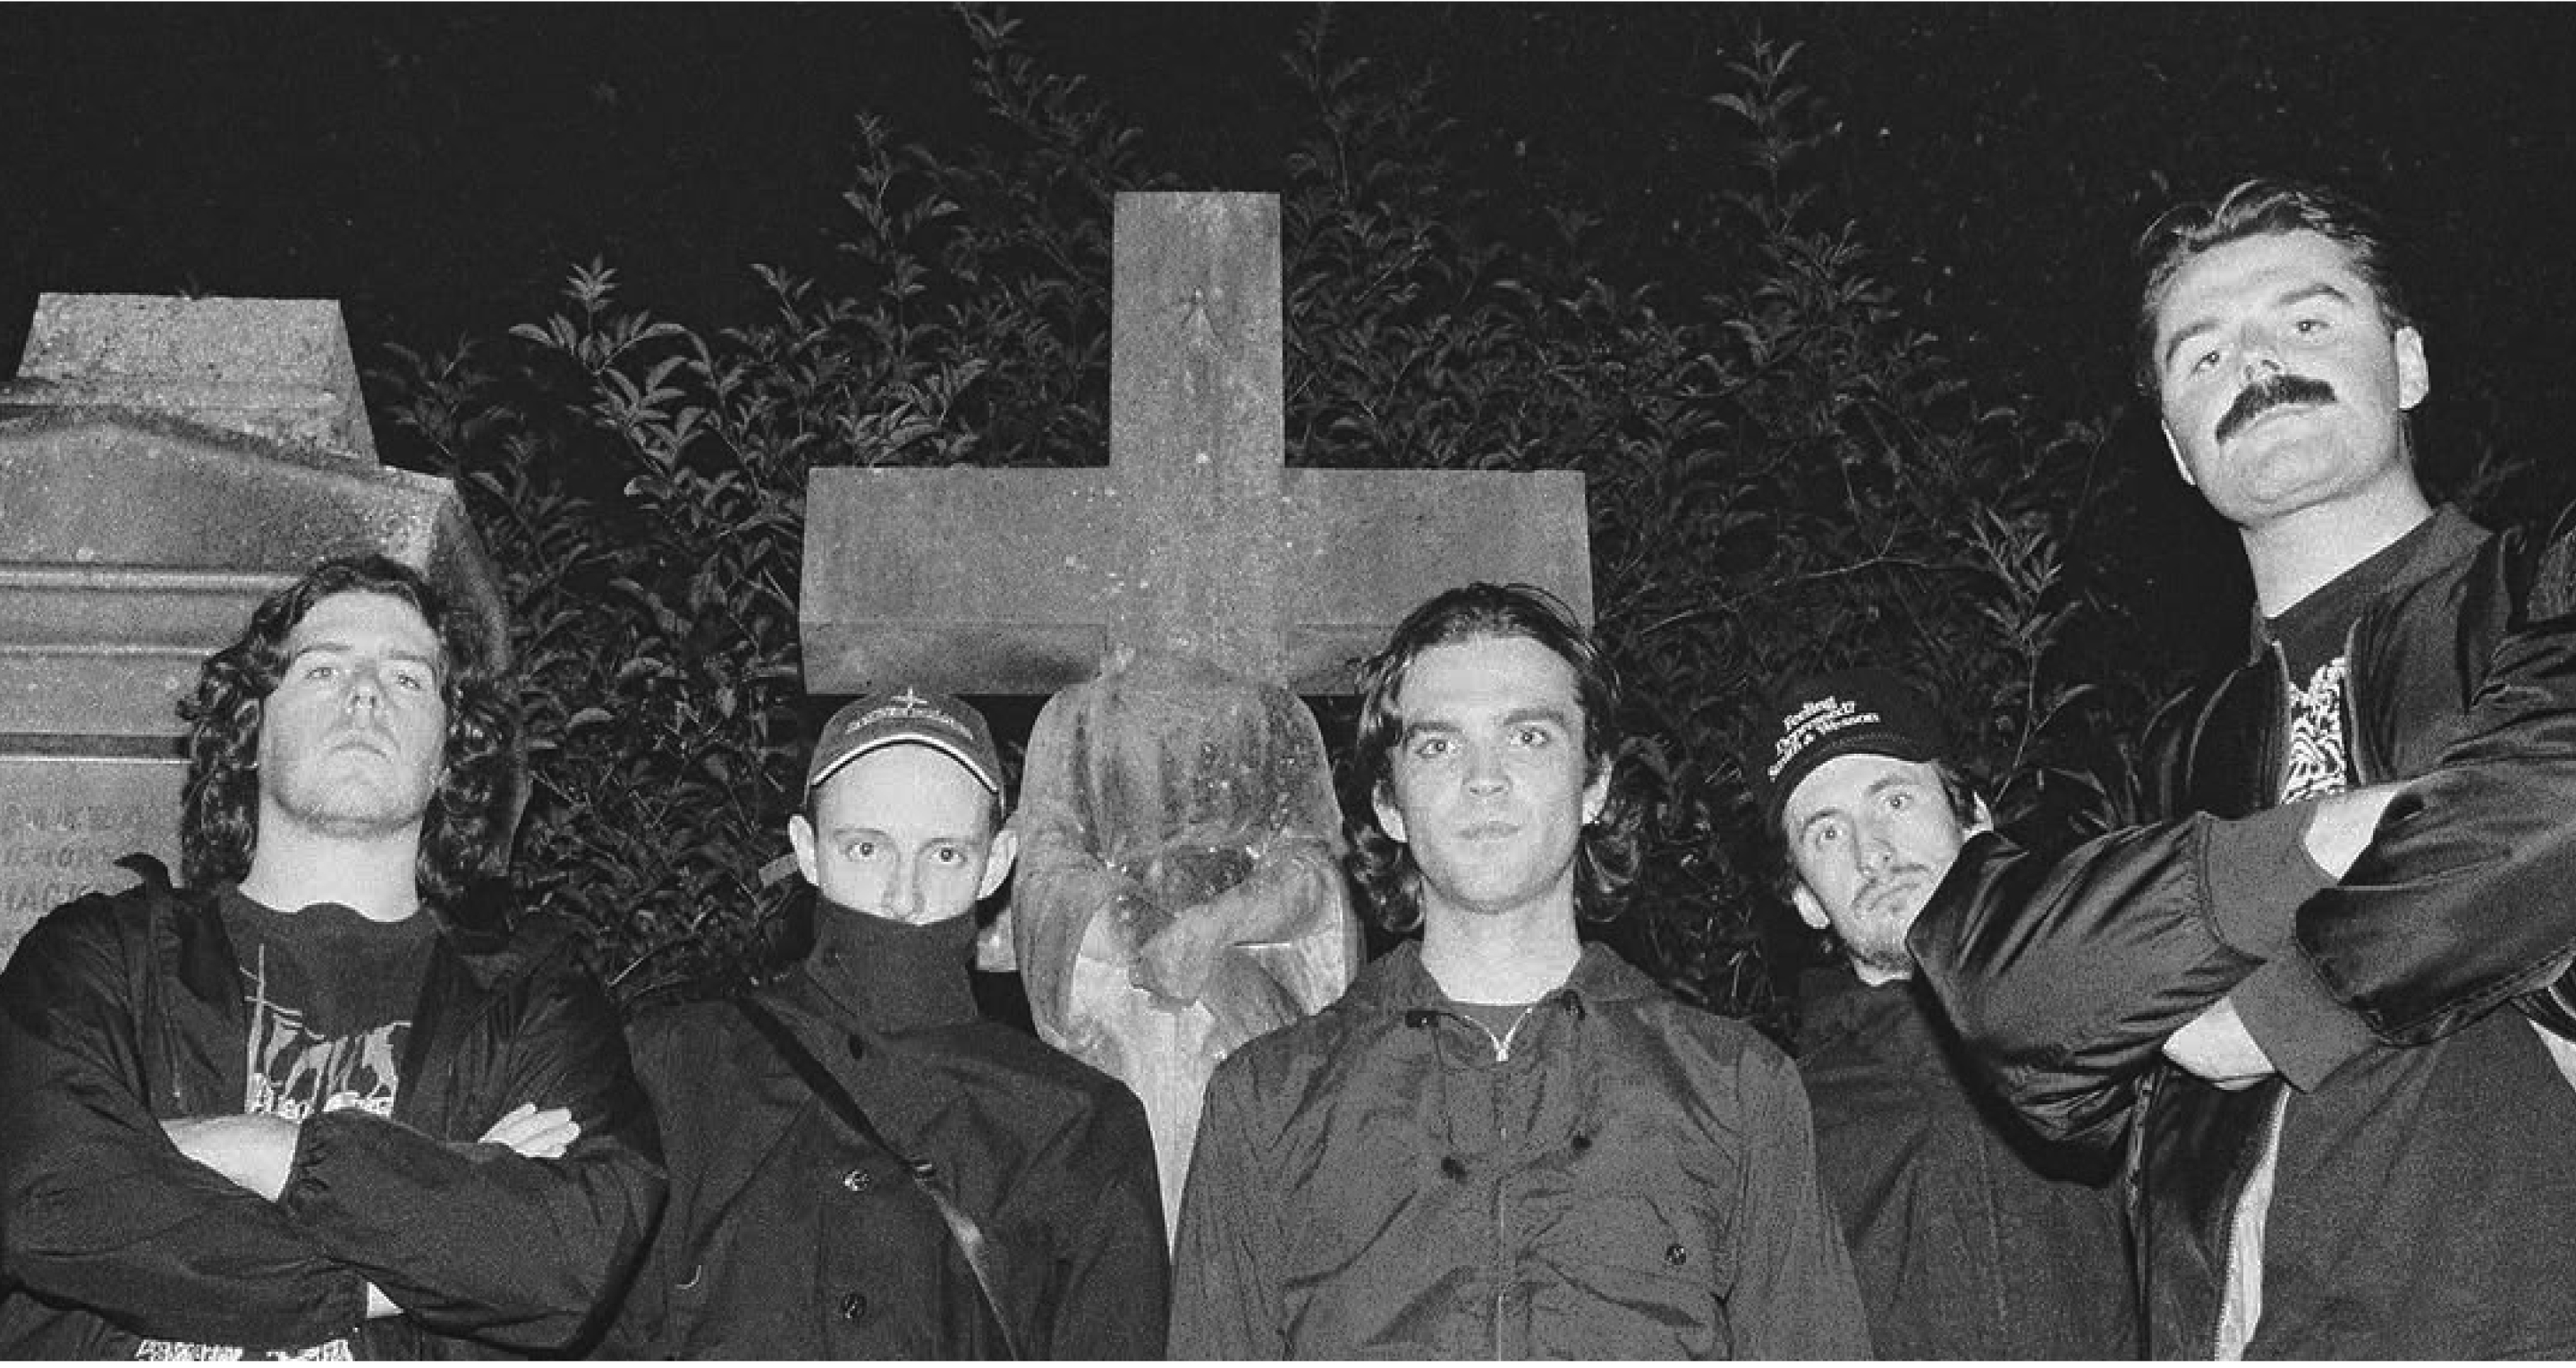
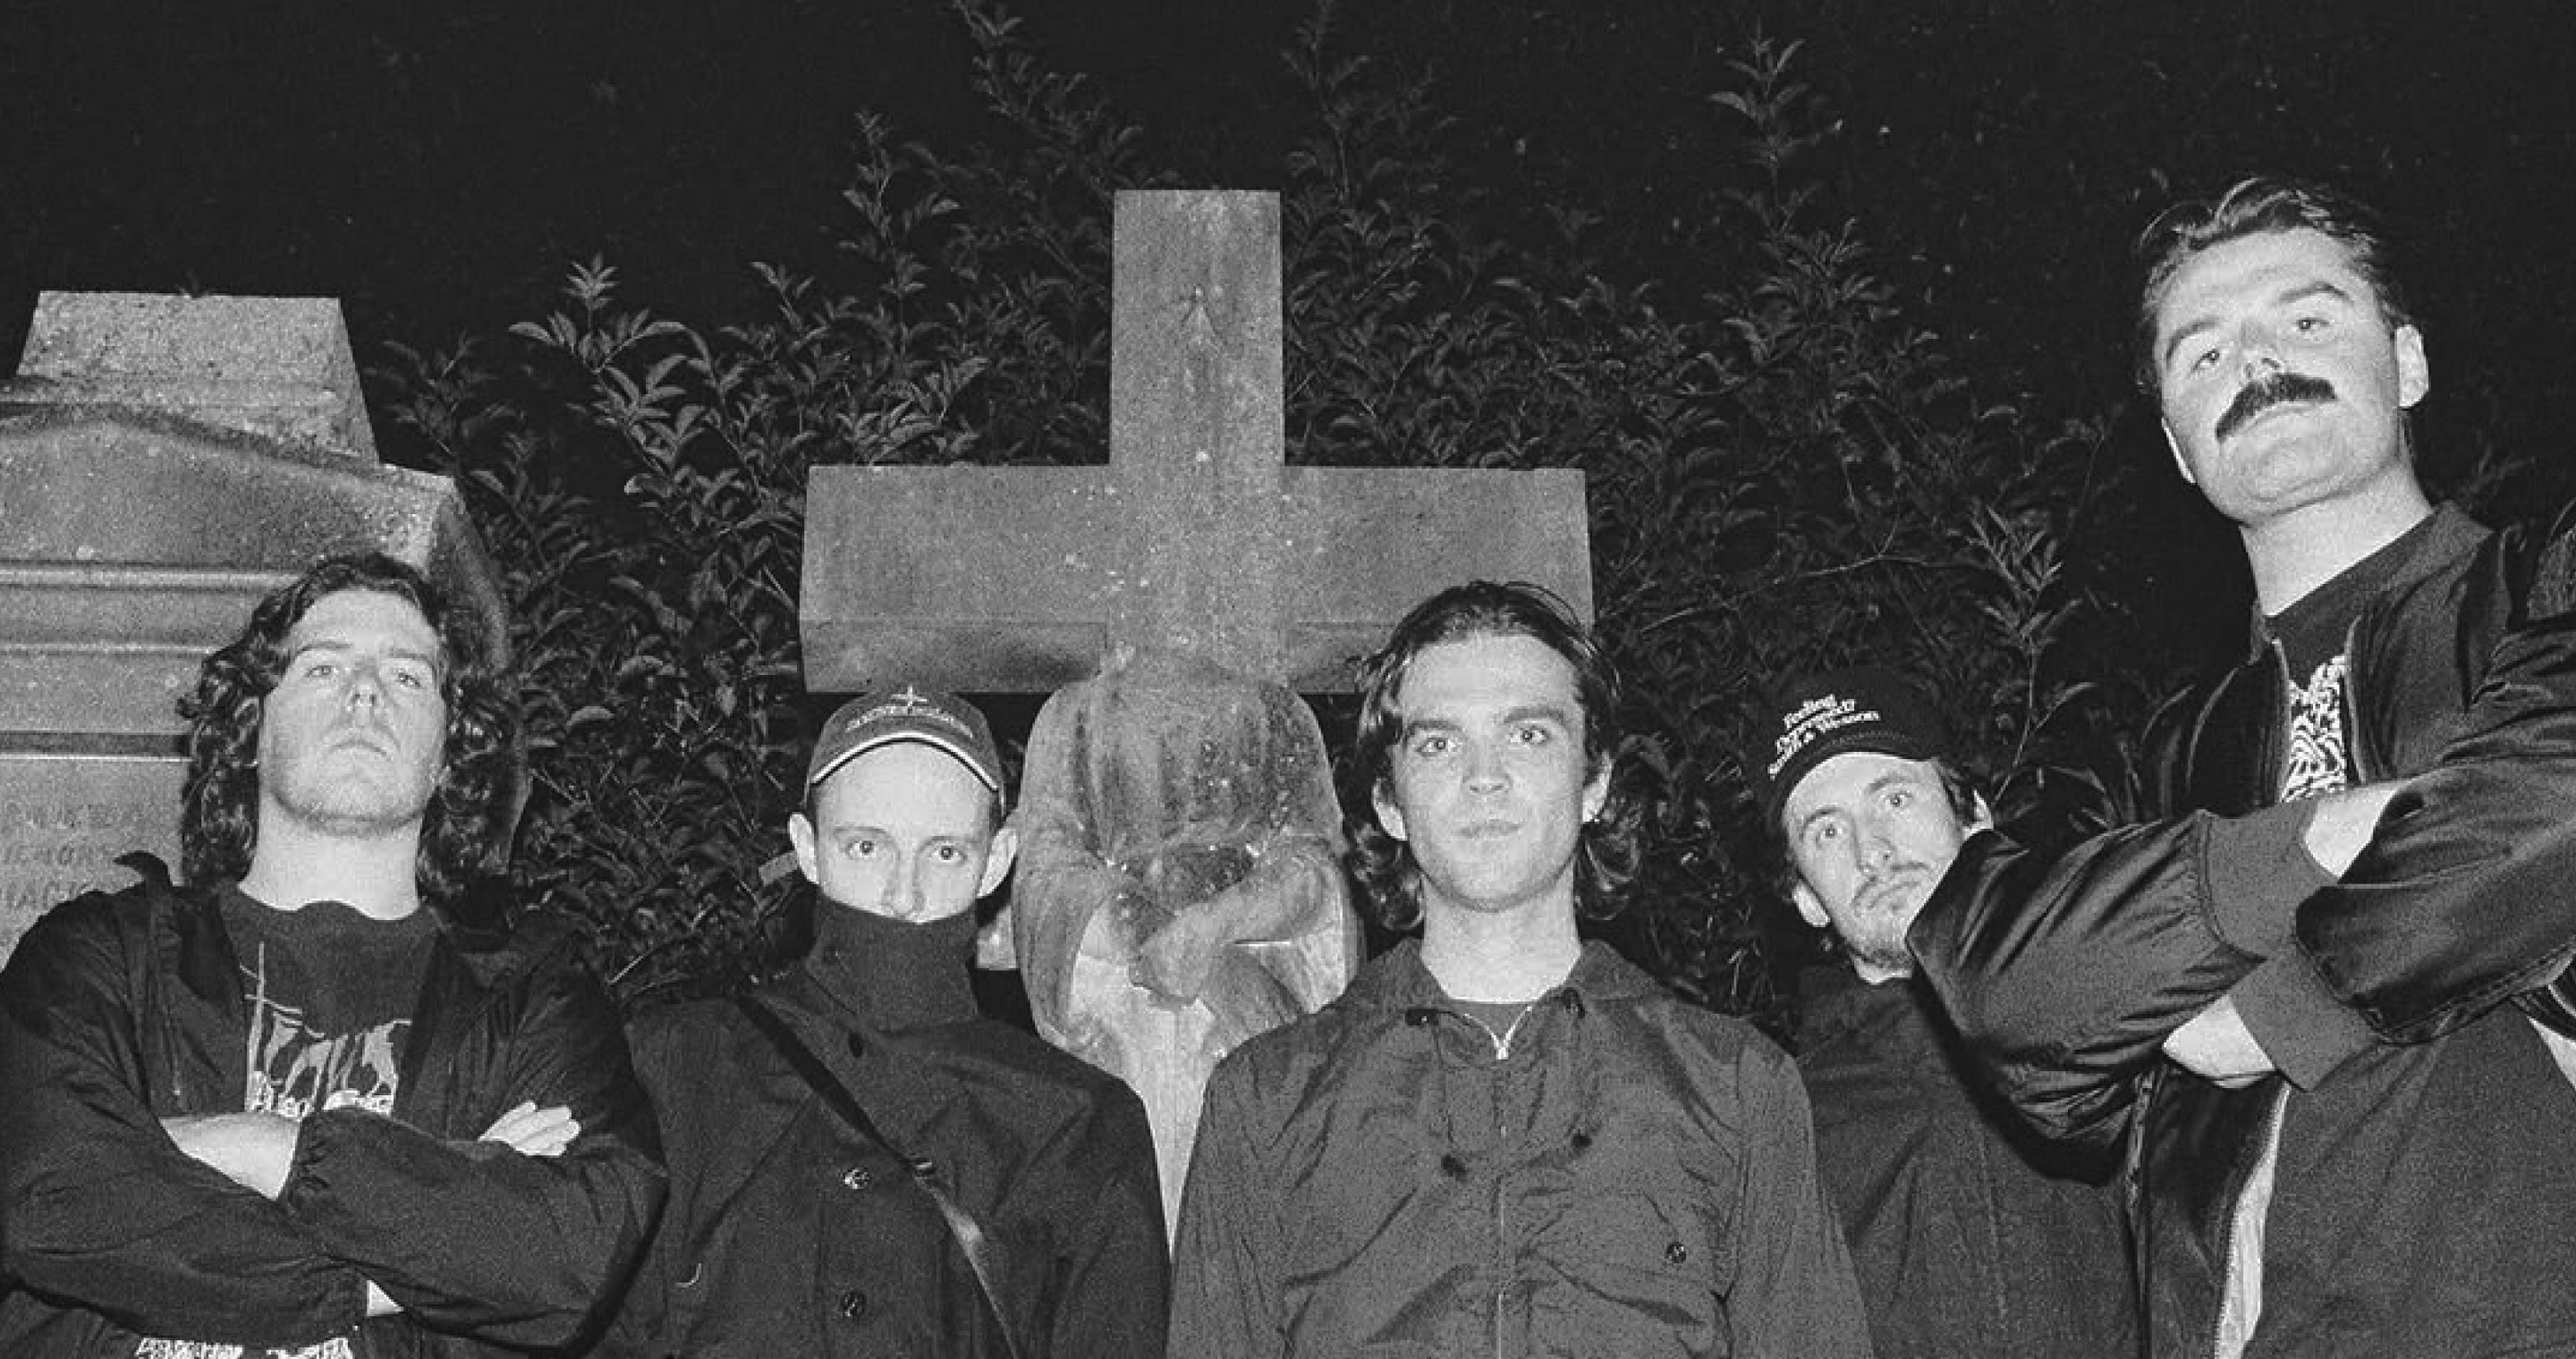
Drop Hellbound's photograph into the carousel
Replaces the stand-in. Same export artifact as the two body images, but on
different edges and deeper: one pure-white row across the top and seven
across the bottom, plus a transitional row at each. Left and right were
clean. Trimmed 2 and 8, which leaves 2880x1520 and every edge on image
content.

The frame follows the photograph at 15/8 rather than the 2/1 it was
guessing at, so the crop is a hair off the sides instead of a slice off the
top and bottom of a group shot — the faces are the thing worth keeping.

Contrast re-measured against the real frame with the type hidden: 8.43:1 on
the subheading and 7.12:1 on the description, both clear of AA. The scrims
were tuned on a bright stand-in, so this confirms they are not
over-darkening a photograph that was already dark.

diff --git a/app/(site)/about/page.tsx b/app/(site)/about/page.tsx
@@ -5,8 +5,7 @@ import Link from "next/link";
 import aboutBodyOne from "@/public/about-bodyimage-one.jpg";
 import aboutBodyTwo from "@/public/about-bodyimage-two.jpg";
 import aboutHero from "@/public/about-hero-image.png";
-/* Stand-in until the band photograph lands — swap this import only. */
-import artistHellbound from "@/public/about-bodyimage-one.jpg";
+import artistHellbound from "@/public/artist-hellbound.jpg";
 import { Parallax } from "@/components/motion/parallax";
 import { Reveal, Stagger, StaggerItem, WordReveal } from "@/components/motion/reveal";
 import { buttonClasses } from "@/components/ui/button";

diff --git a/components/ui/artist-carousel.tsx b/components/ui/artist-carousel.tsx
@@ -55,7 +55,7 @@ export function ArtistCarousel({
       aria-label={heading}
       className="py-20 md:py-28"
     >
-      <div className="relative aspect-[3/4] w-full overflow-hidden sm:aspect-[16/10] lg:aspect-[2/1]">
+      <div className="relative aspect-[3/4] w-full overflow-hidden sm:aspect-[16/10] lg:aspect-[15/8]">
         {artists.map((artist, i) => (
           <m.div
             key={artist.name + i}
